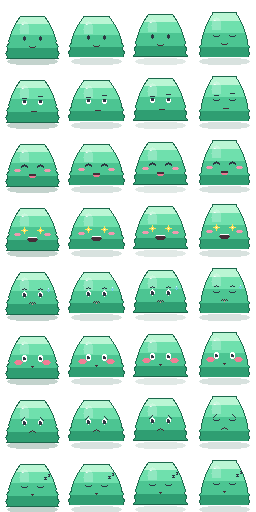
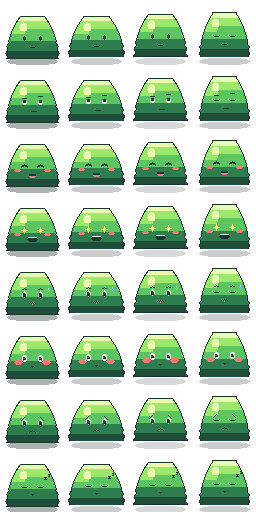
B2: expressions v2 — §4.2 hue-shifted palette + true indexed mood swap
- tools/make-assets.mjs: body now drawn in the manifest's `calm` role hexes (warm rim
  crown → highlight → base → cool shadowCool base + on-palette gel sheen/catchlight),
  so the baked sheet and the runtime's palette-swap share one source of color.
- lib/anim/runtime.mjs: replaced the stand-in tint with a REAL indexed palette swap —
  pre-bakes a recolored sheet per palette (calm/tired/error) and cross-fades calm→tired
  by context fullness, with a brief error flash. Validated live: 95% context = full
  cool-teal "tired" ramp.

Faces re-QA'd via the contact sheet (8 expressions still read distinctly). npm test green: 420.

diff --git a/plan_animayte.md b/plan_animayte.md
@@ -405,7 +405,7 @@ on his screen, sound cuteness, personality "vibes." Queue these in §11 "For Saa
 
 **Phase 0:** ☑ A1 ☑ A2 ☑ A6  ← Phase 0 COMPLETE
 **Phase 1:** ☑ A3 ☑ A4 ☑ B1 ☑ C1  ← Phase 1 COMPLETE
-**Phase 2:** ☑ A5 ☐ B2 ☐ B3 ☐ B4 ☐ B5
+**Phase 2:** ☑ A5 ☑ B2 ☐ B3 ☐ B4 ☐ B5
 **Phase 3:** ☐ B6 ☐ C6 ☐ C3 ☐ C4 ☐ C2
 **Phase 4:** ☐ C5 ☐ C7 ☐ C8
 
@@ -471,6 +471,16 @@ A5 validated live via Preview MCP (thinking/excited/tired states, SSE round-trip
   §4.2 role colors, after which the indexed `swapPalette` replaces the tint. (A5)
 - **Validation tooling:** added `.claude/launch.json` (daemon on :4366) so the Preview MCP can drive
   the live page for screenshots. This is how I autonomously QA the browser renderer (G4). (A5)
+- **B2 art = §4.2 palette, sourced FROM the manifest.** The compiler draws the body in the exact
+  `calm` role hexes (hue-shifted ramp: warm rim crown → highlight → base → cool shadowCool base, with
+  an on-palette gel sheen + catchlight). First tried a directional left/right split → harsh blocky
+  seams; reverted to a clean vertical ramp (kept a subtle top-left lift). Because the sheet is now in
+  role colors, the runtime does a REAL indexed palette-swap: pre-bakes a recolored sheet per palette
+  and cross-fades calm→tired by fullness (+ a brief error flash) — replacing the A5 stand-in tint.
+  Validated live: 95% context renders the full cool-teal `tired` ramp. (B2)
+- **Blink "split":** in the baked-sheet model, blink is column 3. True layer separation isn't in this
+  model (deliberate — baked frames keep the 3 thin renderers drift-free per §3.4); B3 adds randomized
+  blink via a runtime timer + per-frame `cell` column indices so breathing doesn't force a blink. (B2→B3)
 
 **For Saar to review / decide (non-blocking — I proceeded with a default):**
 - **Cursor-glance flair has NO real signal** (honest-mirror concern raised in `docs/animation-library.md`